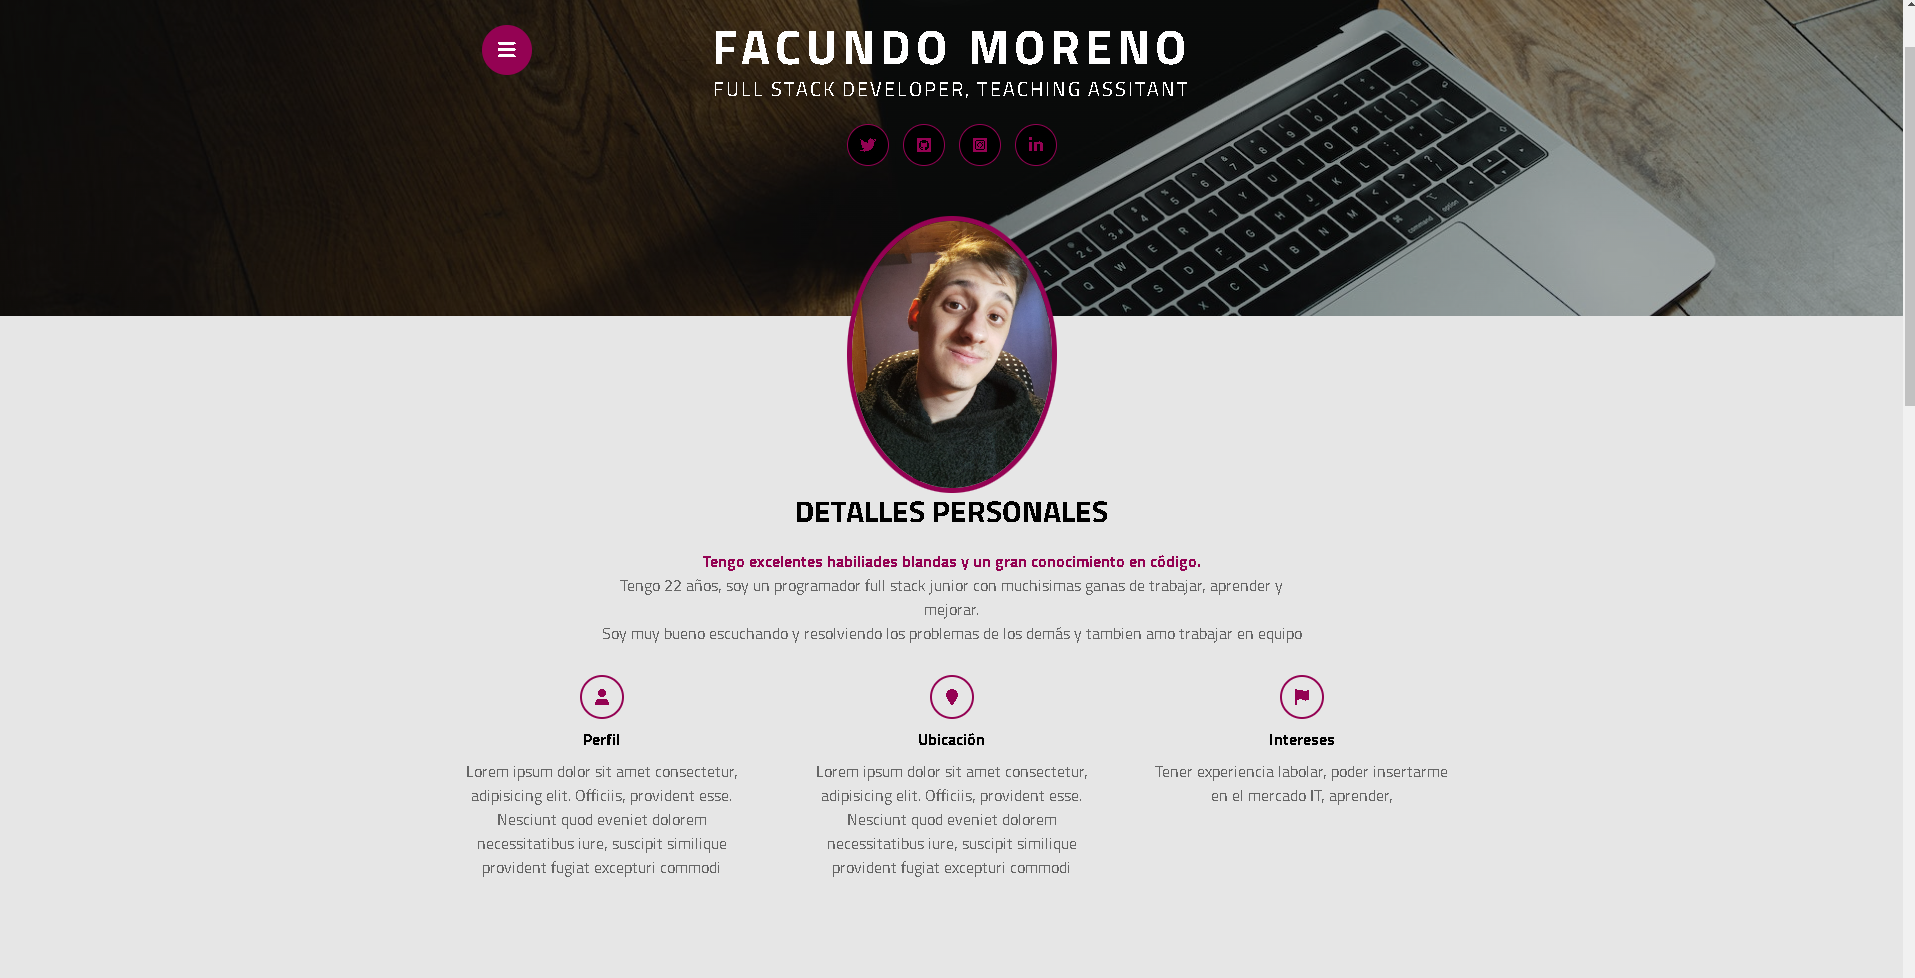
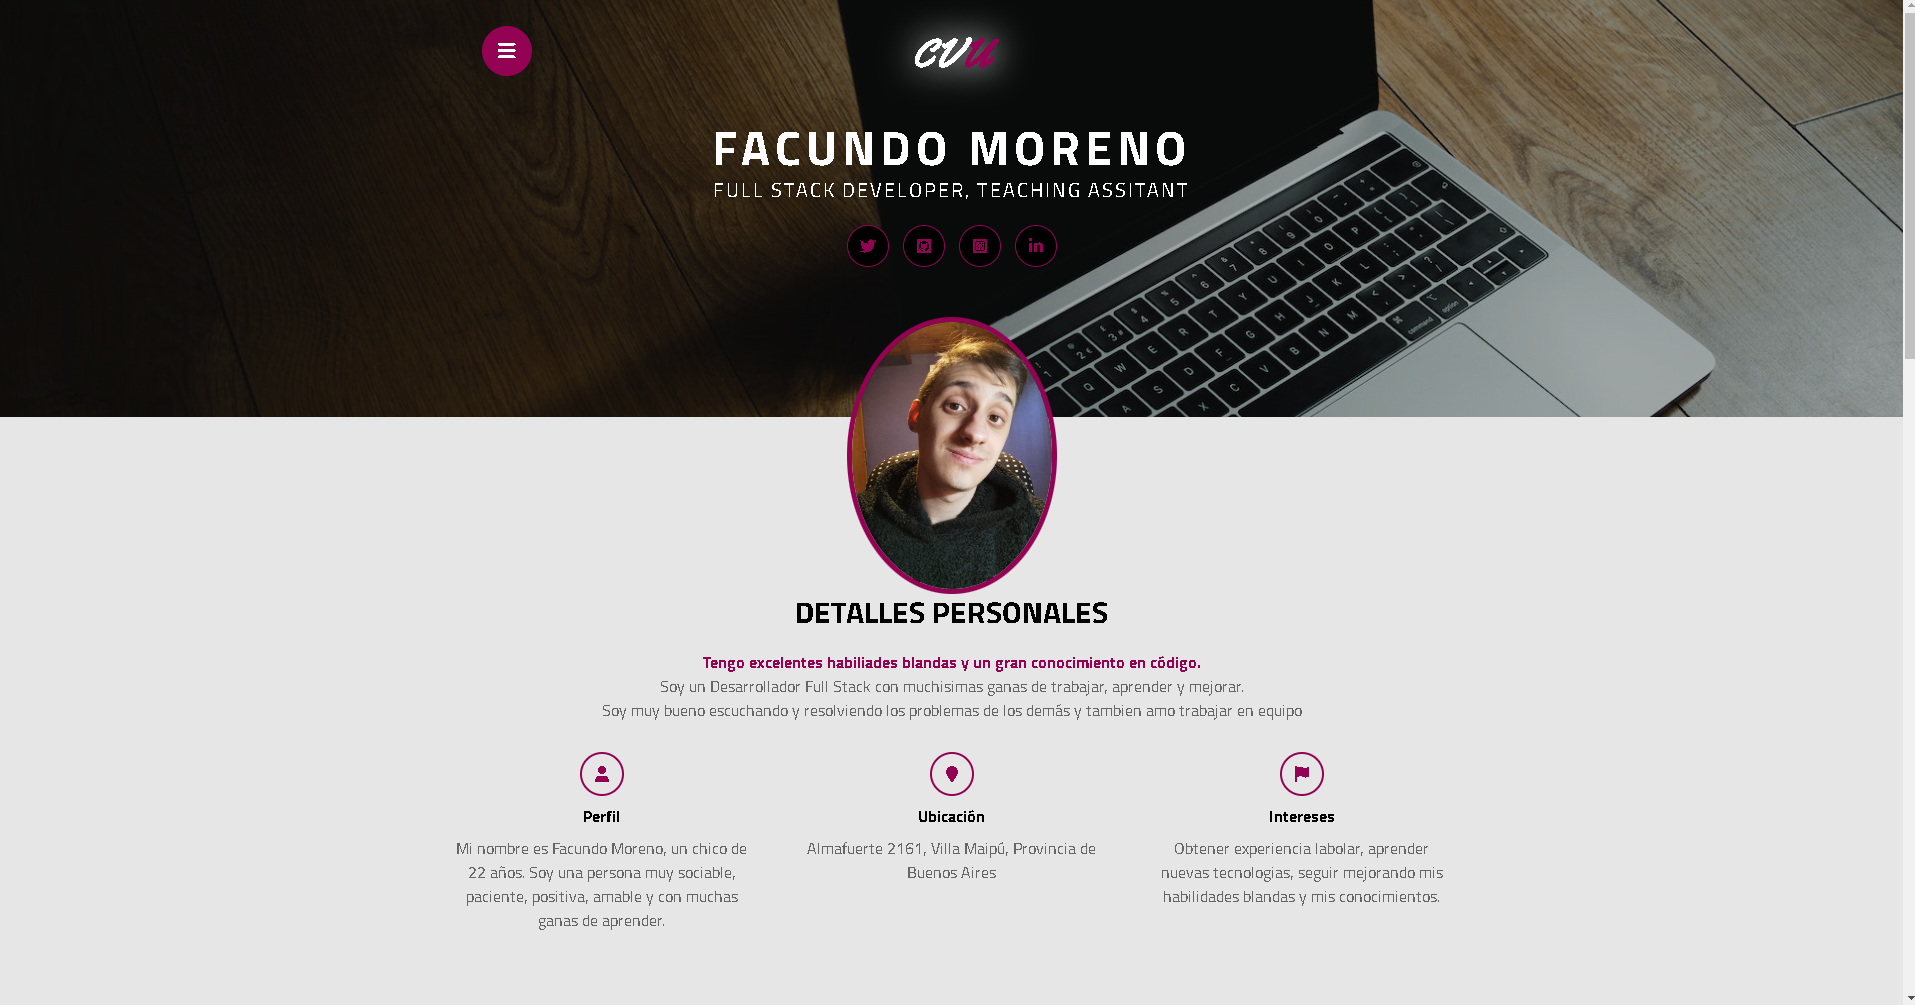
mejor info

Changed region(s): [[0.0, 0.0, 1.0, 0.8896], [0.2465, 0.7055, 0.4005, 0.9202], [0.6162, 0.7055, 0.7394, 0.9202]]

diff --git a/index.html b/index.html
@@ -24,7 +24,7 @@
                     <a href="#contacto">Contacto</a>
                 </nav>
                 <div class="logo">
-                    M<span class="color">S</span>
+                    CV<span class="color">U</span>
                 </div>
             </header>
             <div class="info">
@@ -50,23 +50,25 @@
             <h3>Detalles personales</h3>
 
             <p class="especial">Tengo excelentes habiliades blandas y un gran conocimiento en código.</p>
-            <p>Tengo 22 años, soy un programador full stack junior con muchisimas ganas de trabajar, aprender y mejorar.</p>
+            <p>Soy un Desarrollador Full Stack con muchisimas ganas de trabajar, aprender y mejorar.</p>
             <p>Soy muy bueno escuchando y resolviendo los problemas de los demás y tambien amo trabajar en equipo</p>
             <div class="fila">
                 <div class="col">
                     <i class="fa-solid fa-user"></i>
                     <span class="titulo-detalle">Perfil</span>
-                    <p>Lorem ipsum dolor sit amet consectetur, adipisicing elit. Officiis, provident esse. Nesciunt quod eveniet dolorem necessitatibus iure, suscipit similique provident fugiat excepturi commodi</p>
+                    <p>Mi nombre es Facundo Moreno, un chico de 22 años. Soy una persona muy sociable, paciente, positiva, amable y con muchas ganas de aprender.</p>
                 </div>
                 <div class="col">
                     <i class="fa-solid fa-location-pin"></i>
                     <span class="titulo-detalle">Ubicación</span>
-                    <p>Lorem ipsum dolor sit amet consectetur, adipisicing elit. Officiis, provident esse. Nesciunt quod eveniet dolorem necessitatibus iure, suscipit similique provident fugiat excepturi commodi</p>
+                    <p>Almafuerte 2161, Villa Maipú, Provincia de Buenos Aires</p>
                 </div>
                 <div class="col">
                     <i class="fa-solid fa-flag"></i>
                     <span class="titulo-detalle">Intereses</span>
-                    <p>Tener experiencia labolar, poder insertarme en el mercado IT, aprender, </p>
+                    <p>Obtener experiencia labolar, aprender nuevas tecnologias,
+                      seguir mejorando mis habilidades blandas y mis conocimientos.    
+                    </p>
                 </div>
             </div>
         </div>
@@ -161,7 +163,7 @@
                                 <h3>2007 - 2013</h3>
                             </td>
                             <td rowspan="2" class="descripcion">
-                                Lorem ipsum dolor sit amet consectetur adipisicing elit. Vero at soluta quos explicabo dolor recusandae, dolorum.
+                                Era un chico apasionado por la computacion y la actuacion.
                             </td>
                         </tr>
                         <tr>
@@ -178,7 +180,7 @@
                                 <h3>2014 - 2019</h3>
                             </td>
                             <td rowspan="2" class="descripcion">
-                                Lorem ipsum dolor sit amet consectetur adipisicing elit. Vero at soluta quos explicabo dolor recusandae, dolorum.
+                                Aqui nunca cambie de pareser, queria ser actor, pero realmente, me atrapo más la programacion.
                             </td>
                         </tr>
                         <tr>
@@ -189,7 +191,26 @@
                             </td>
                         </tr>
                     </table>
+                    <table>
+                        <tr>
+                            <td class="datos">
+                                <h3>2022-2023</h3>
+                            </td>
+                            <td rowspan="2" class="descripcion">
+                                Un Bootcamp pesado y complicado, pero que te deja muchas enseñanzas.<br/>
+                                Aqui me converti en un Desarrollador Full Stack.
+                            </td>
+                        </tr>
+                        <tr>
+                            <td>
+                                <h4>Bootcamp</h4>
+                                <p>Henry</p>
+                                <span class="promedio">9 PG</span>
+                            </td>
+                        </tr>
+                    </table>
                 </div>
+                
                 <div class="col">
                     <span class="titulo">Experiencia Laboral</span>
                     <table>
@@ -198,7 +219,8 @@
                                 <h3>Ninguna</h3>
                             </td>
                             <td rowspan="2" class="descripcion">
-                                Lorem ipsum dolor sit amet consectetur adipisicing elit. Vero at soluta quos explicabo dolor recusandae, dolorum.
+                                Lo que más quiero ahora mismo es probar mis habilidades en el mercado.<br/>
+                                Asi crece mi experiencia y tambien crezco yo como persona. 
                             </td>
                         </tr>
                         <tr>

diff --git a/estilos.css b/estilos.css
@@ -304,6 +304,25 @@ html{
 .contacto .contenido-seccion .fila .col h2{
     color: #940253;
 }
+
+.sobremi .contenido-seccion .fila .col .fa-user:hover{
+font-size: 20px;
+background-color:#940253;
+color: #fff;
+transition: 1s;
+}
+.sobremi .contenido-seccion .fila .col .fa-location-pin:hover{
+font-size: 20px;
+background-color:#940253;
+color: #fff;
+transition: 1s;
+}
+.sobremi .contenido-seccion .fila .col .fa-flag:hover{
+font-size: 20px;
+background-color:#940253;
+color: #fff;
+transition: 1s;
+}    
 /* SECCION RESPONSIVE */
 @media screen and (max-width:800px){
     .habilidades .contenido-seccion .fila{

diff --git a/app.js b/app.js
@@ -57,7 +57,7 @@ function efectoHabilidades(){
     if(distancia_skills>=300 && entro==false){
         entro = true;
         const intervalHtml = setInterval(function(){
-            pintarBarra(html, 16, 0, intervalHtml);
+            pintarBarra(html, 17, 0, intervalHtml);
         },100);
         const intervalJavascript = setInterval(function(){
             pintarBarra(javascript, 17, 1, intervalJavascript);
